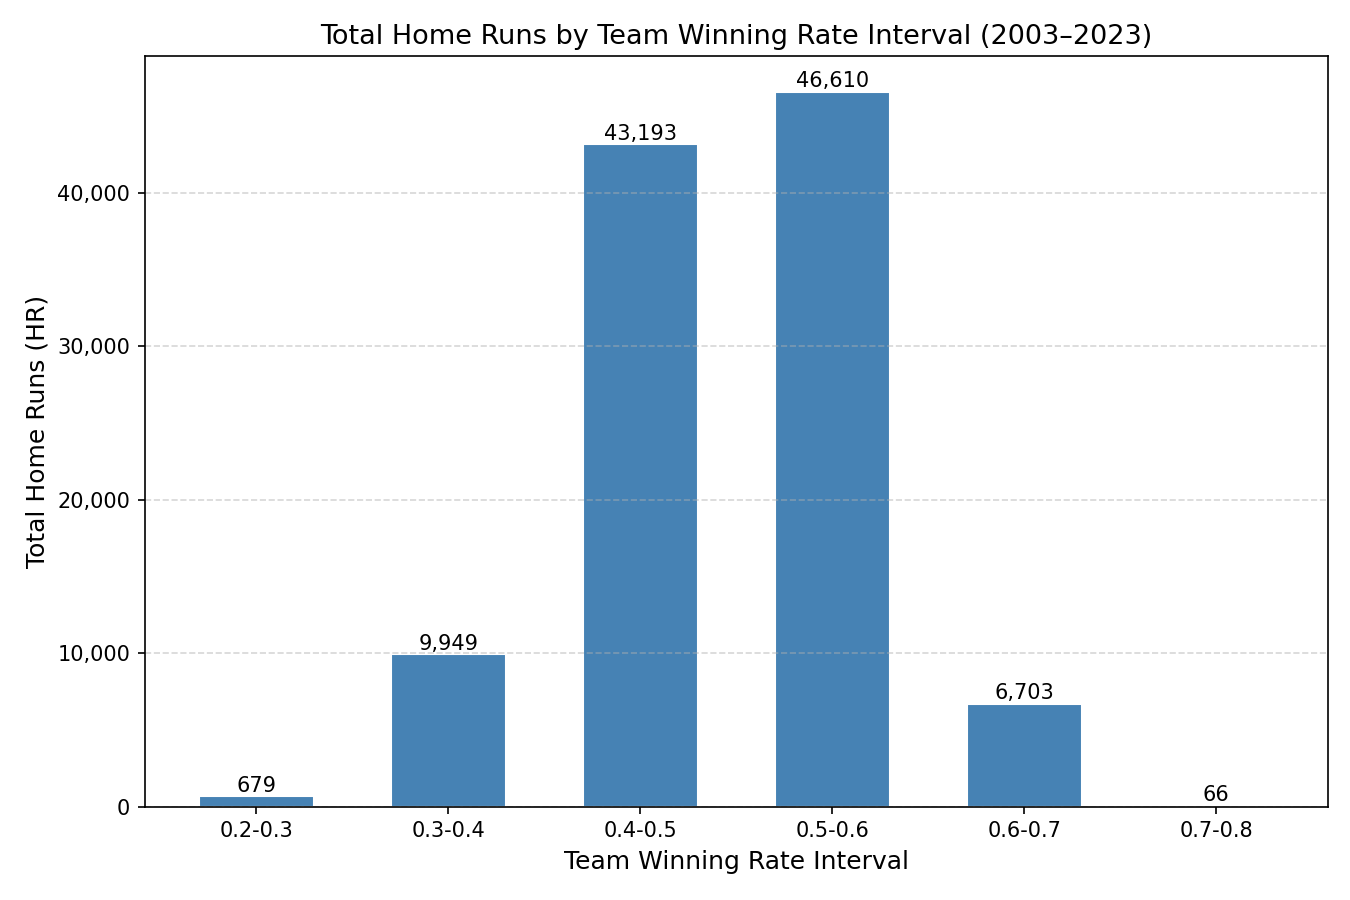
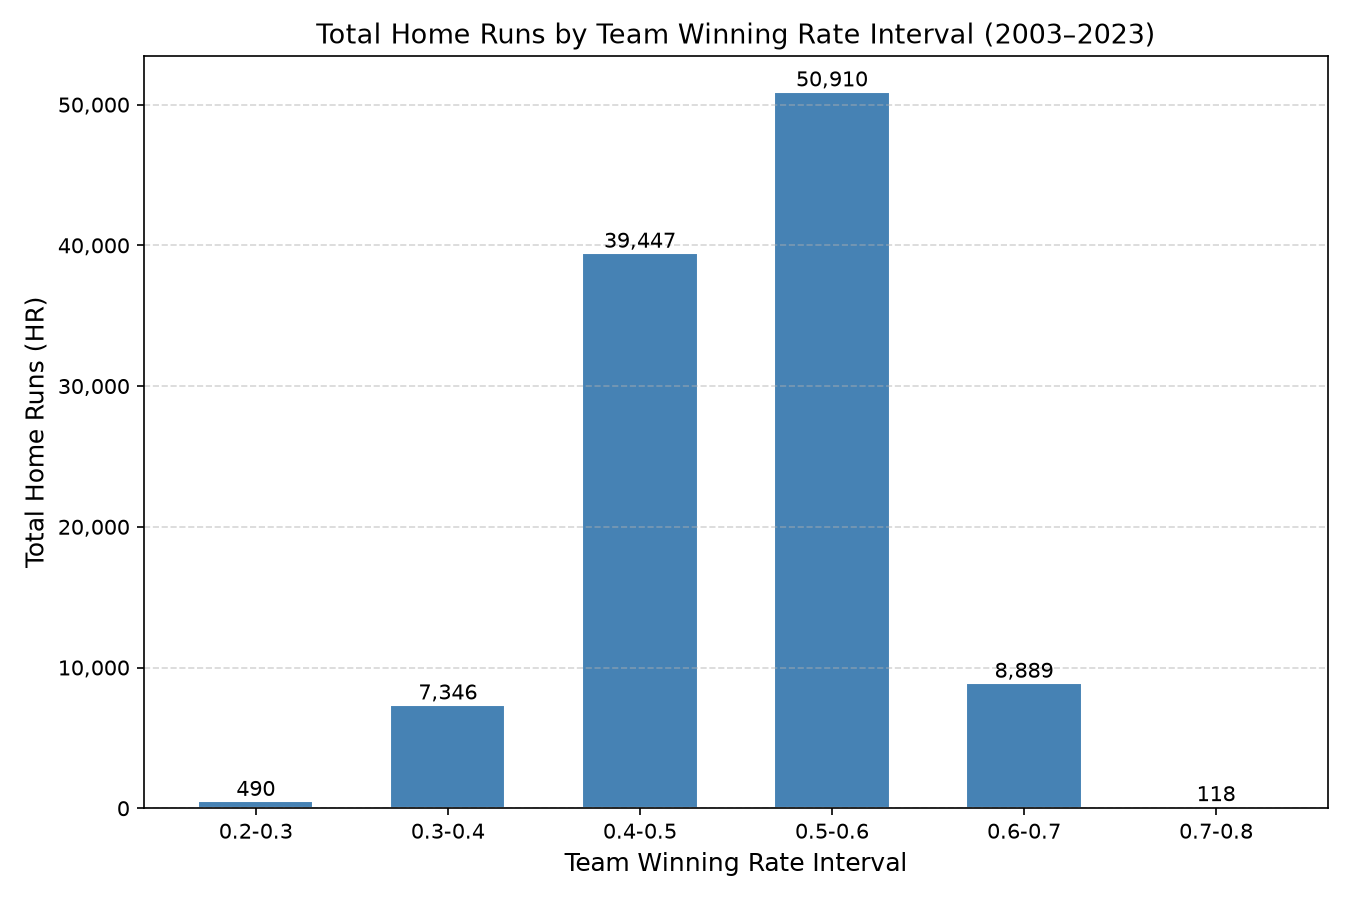
fix Q2 HR source: use hitting data instead of pitching data

diff --git a/1121420_HW3/utils.py b/1121420_HW3/utils.py
@@ -71,7 +71,7 @@ def load_player_pitching():
 def merge_team_data():
     th = load_team_hitting()
     tp = load_team_pitching()
-    merged = pd.merge(tp[['YEAR', 'TEAM', 'win_rate', 'HR']], th[['YEAR', 'TEAM', 'AVG']], on=['YEAR', 'TEAM'])
+    merged = pd.merge(tp[['YEAR', 'TEAM', 'win_rate']], th[['YEAR', 'TEAM', 'AVG', 'HR']], on=['YEAR', 'TEAM'])
     merged['win_rate_bin'] = pd.cut(merged['win_rate'], bins=WIN_RATE_BINS, labels=WIN_RATE_LABELS, right=False)
     return merged
 
